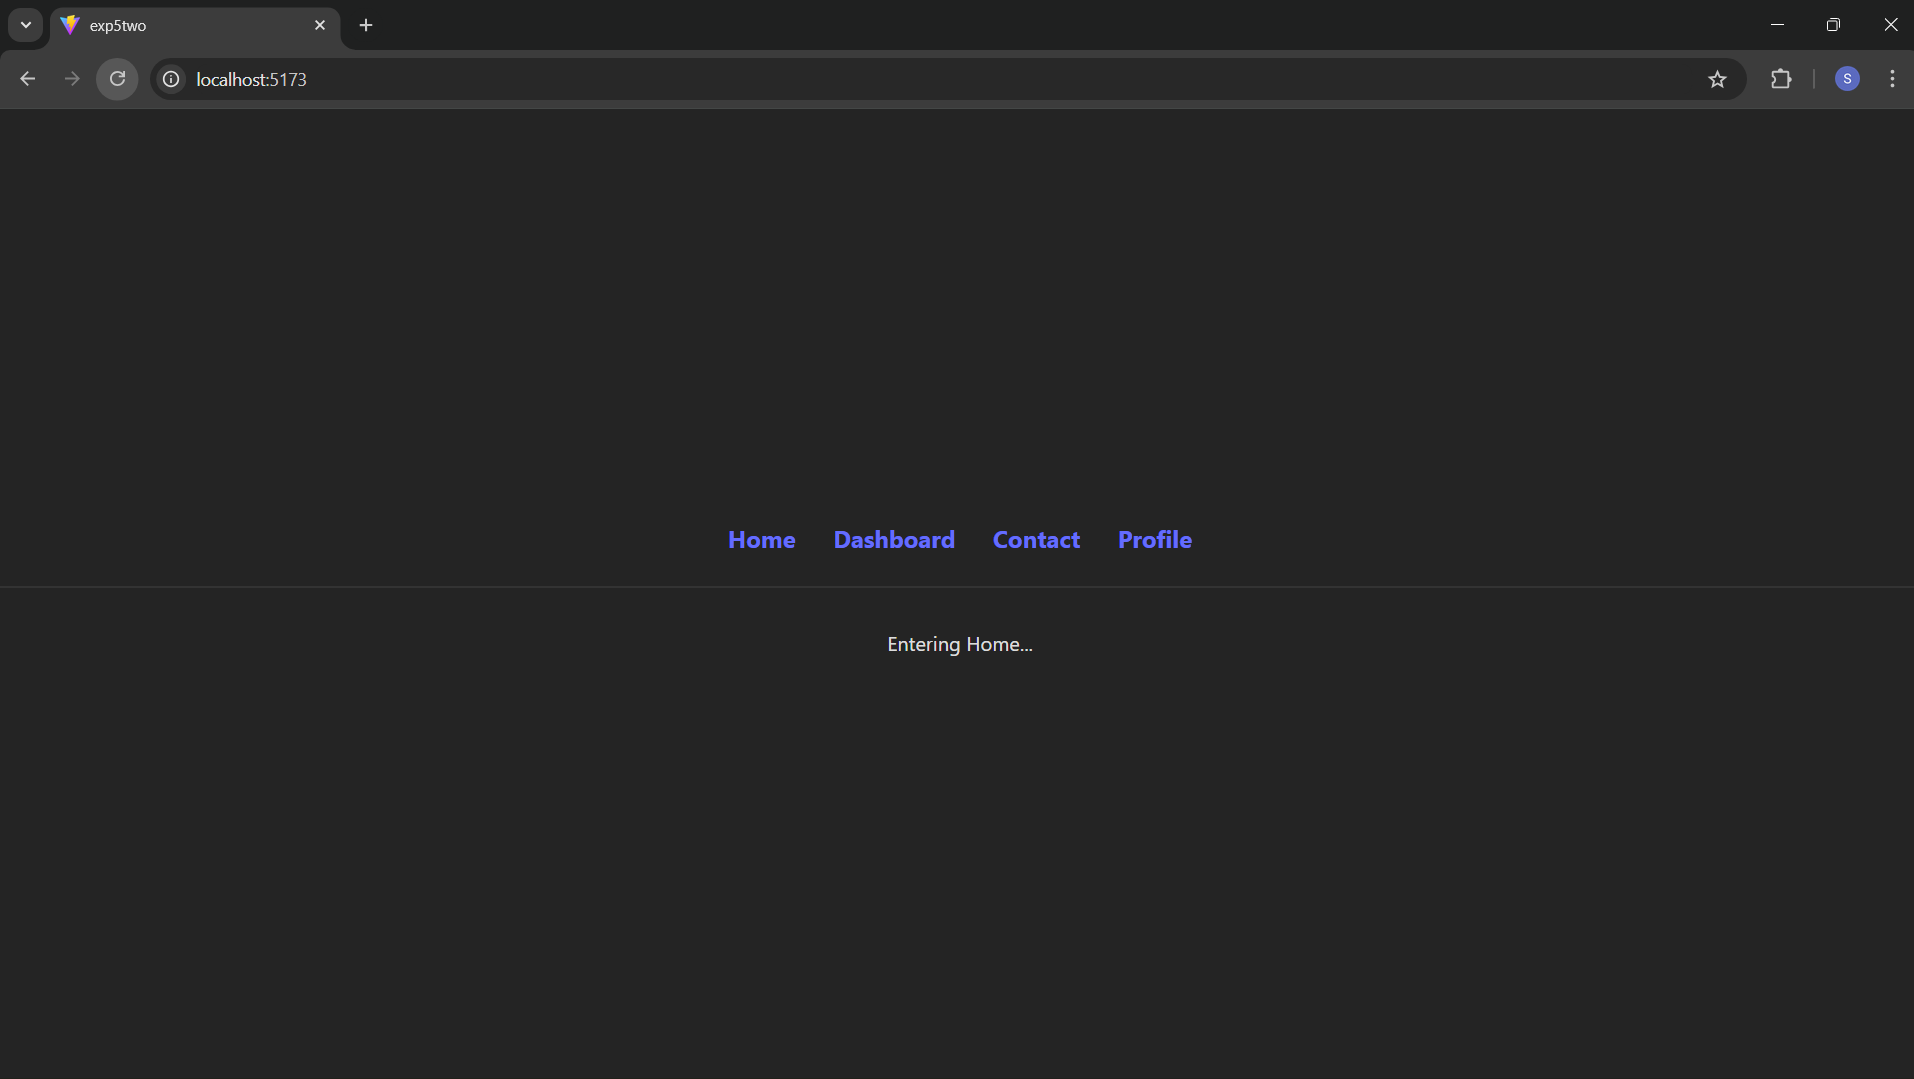
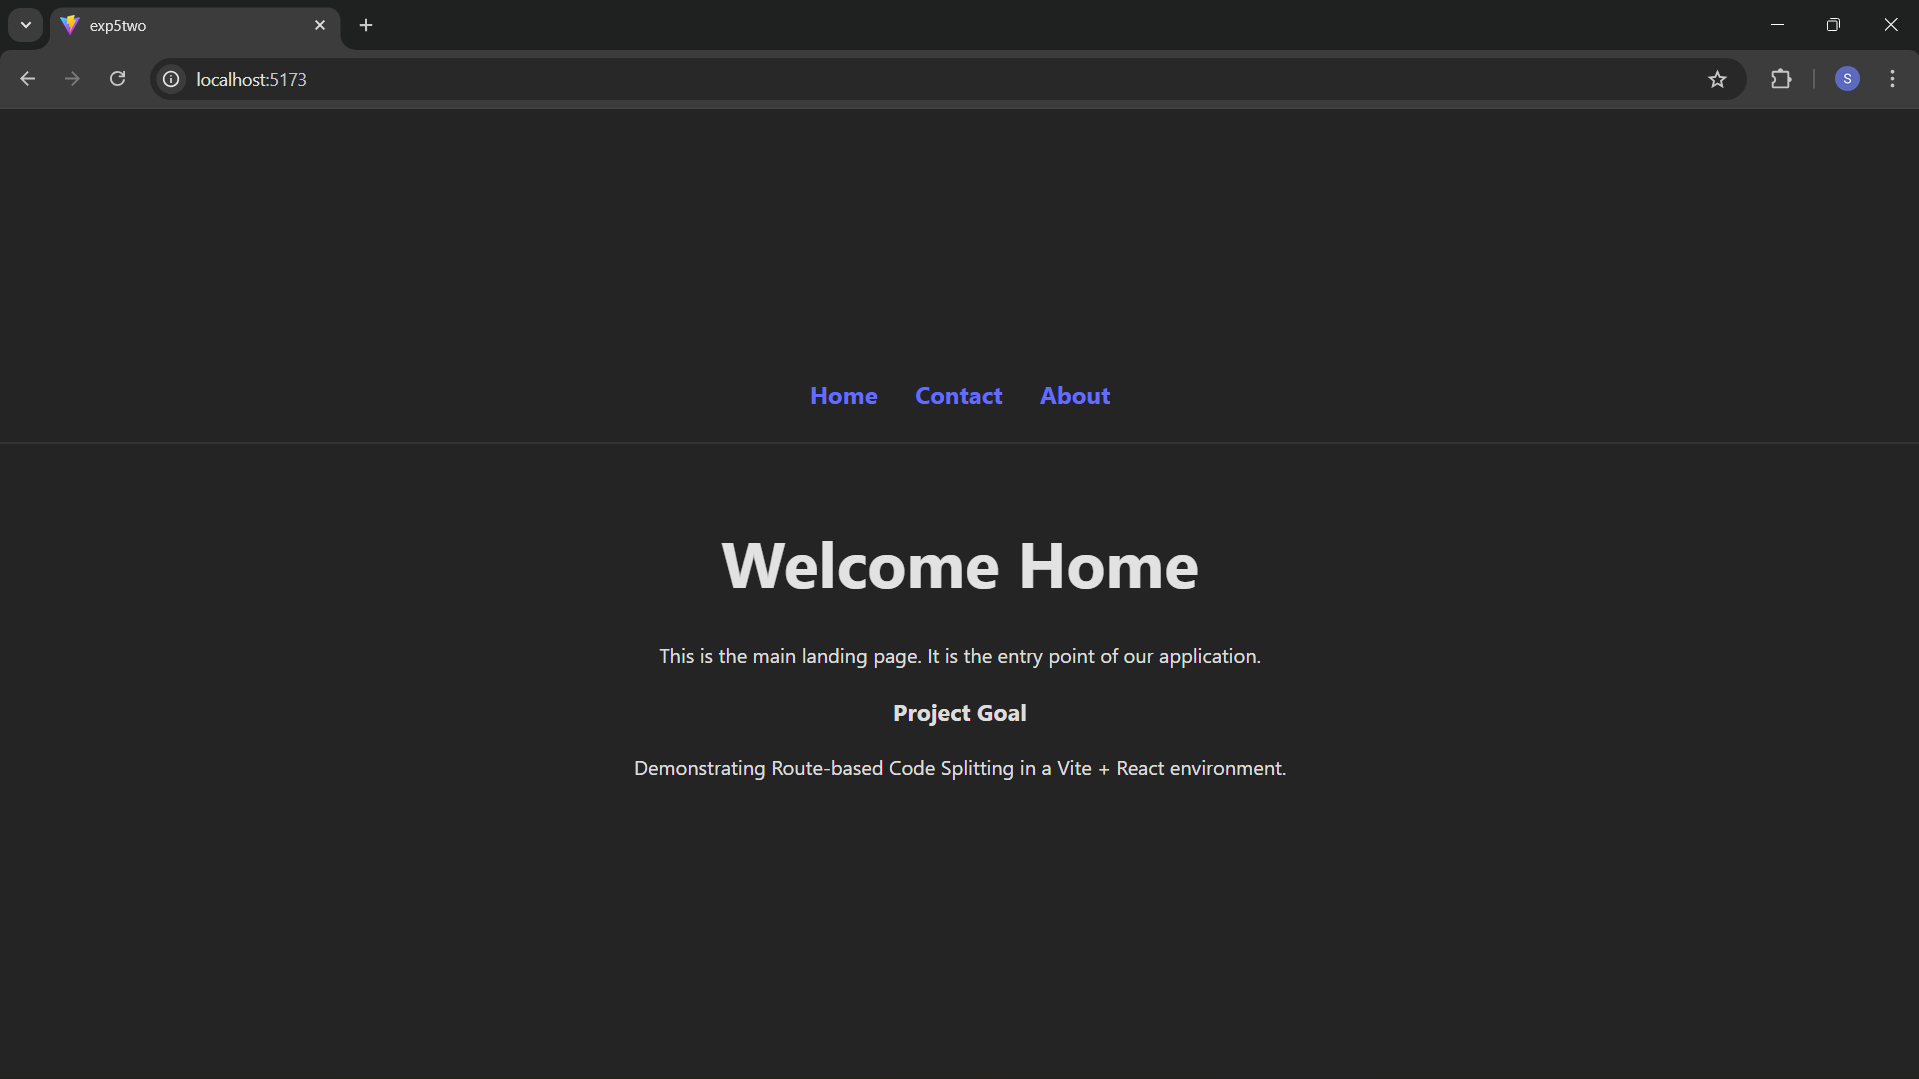
Exp5, Screenshots updated

diff --git a/Experiment5/exp5two/src/Components/Navbar.jsx b/Experiment5/exp5two/src/Components/Navbar.jsx
@@ -5,7 +5,7 @@ export default function Navbar() {
     <nav className="navbar">
       <Link to="/">Home</Link>
       <Link to="/contact">Contact</Link>
-      <Link to="/about">Profile</Link>
+      <Link to="/about">About</Link>
     </nav>
   );
 }
